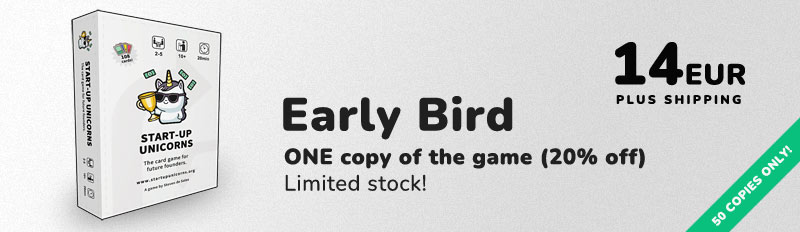
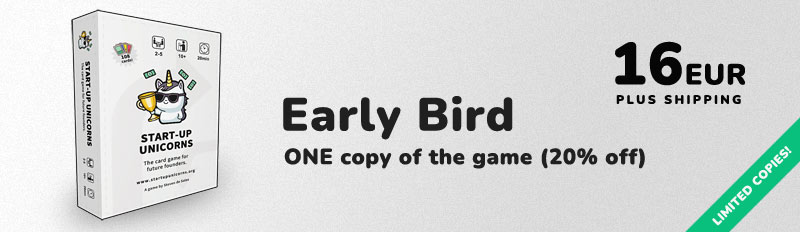
Blurb

Changed region(s): [[0.3438, 0.7543, 0.5312, 0.8448], [0.875, 0.6336, 1.0, 0.9655], [0.8125, 0.181, 0.875, 0.3922]]

diff --git a/index.html b/index.html
@@ -244,8 +244,6 @@
 
       <section id="rewards" class="wrapper style2 special">
         <h2 style="font-size: 180%">Rewards</h4>
-        <!-- <p><a href="https://www.kickstarter.com/projects/sdesalas/startup-unicorns-relaunch/pledge"><img class="large" src="/images/reward.tiers.wide.earlybird.jpg" /></a></p> -->
-        <p><a href="https://www.kickstarter.com/projects/sdesalas/startup-unicorns-relaunch/pledge"><img class="large" src="images/reward.tiers.wide.basicset.jpg" /></a></p>
         <div class="sidequote">
           <p>As a crowdfunding effort, this is a creative project that has <em>yet to be produced</em>. 
             Rather than a product you buy in the shop.
@@ -257,6 +255,10 @@
             as the creative endeavor cannot go ahead without your backing.
           </p>
         </div>
+        <!-- <p><a href="https://www.kickstarter.com/projects/sdesalas/startup-unicorns-relaunch/pledge"><img class="large" src="/images/reward.tiers.wide.earlybird.jpg" /></a></p> -->
+        <p><a href="https://www.kickstarter.com/projects/sdesalas/startup-unicorns-relaunch/pledge"><img class="large" src="images/reward.tiers.wide.earlybird.jpg" /></a></p>
+        <p><a href="https://www.kickstarter.com/projects/sdesalas/startup-unicorns-relaunch/pledge"><img class="large" src="images/reward.tiers.wide.basicset.jpg" /></a></p>
+        <p class="caption">Note that cost has gone up for the relaunch! This is because we're now aiming for 50 units instead of 200, which makes the game more expensive to print per unit.</p>
       </section>
 
 		<!-- Two -->

diff --git a/es/index.html b/es/index.html
@@ -250,8 +250,6 @@
 
       <section id="rewards" class="wrapper style2 special">
         <h2 style="font-size: 180%">Recompensa</h4>
-        <!-- <p><a href="https://www.kickstarter.com/projects/sdesalas/startup-unicorns-relaunch/pledge"><img class="large" src="/images/reward.tiers.wide.earlybird.jpg" /></a></p> -->
-        <p><a href="https://www.kickstarter.com/projects/sdesalas/startup-unicorns-relaunch/pledge"><img class="large" src="/images/reward.tiers.wide.basicset.jpg" /></a></p>
         <div class="sidequote">
           <p>En lugar de un producto que compras en la tienda. Este es un <em>projecto creativo bajo patrocinio</em>. 
           </p>
@@ -261,6 +259,10 @@
             no puede seguir adelante sin que lo respaldes.
           </p>
         </div>
+        <p><a href="https://www.kickstarter.com/projects/sdesalas/startup-unicorns-relaunch/pledge"><img class="large" src="/images/reward.tiers.wide.earlybird.jpg" /></a></p>
+        <p><a href="https://www.kickstarter.com/projects/sdesalas/startup-unicorns-relaunch/pledge"><img class="large" src="/images/reward.tiers.wide.basicset.jpg" /></a></p>
+        <p class="caption">El coste ha incrementado para el relanzamiento! Es porque estamos atinando a 50 unidades en vez de 200, lo cual hace mas caro imprimir el juego por cada unidad.</p>
+      
       </section>
 
 

diff --git a/assets/css/main.css b/assets/css/main.css
@@ -4254,3 +4254,12 @@ form .email-arrow img {
 .sidequote em {
   color: #555;
 }
+p.caption {
+  margin: -2em auto 2em;
+  max-width: 400px;
+  font-size: 86%;
+}
+
+.wrapper.style2 a:has(img) {
+  border-bottom-color: transparent;
+}
